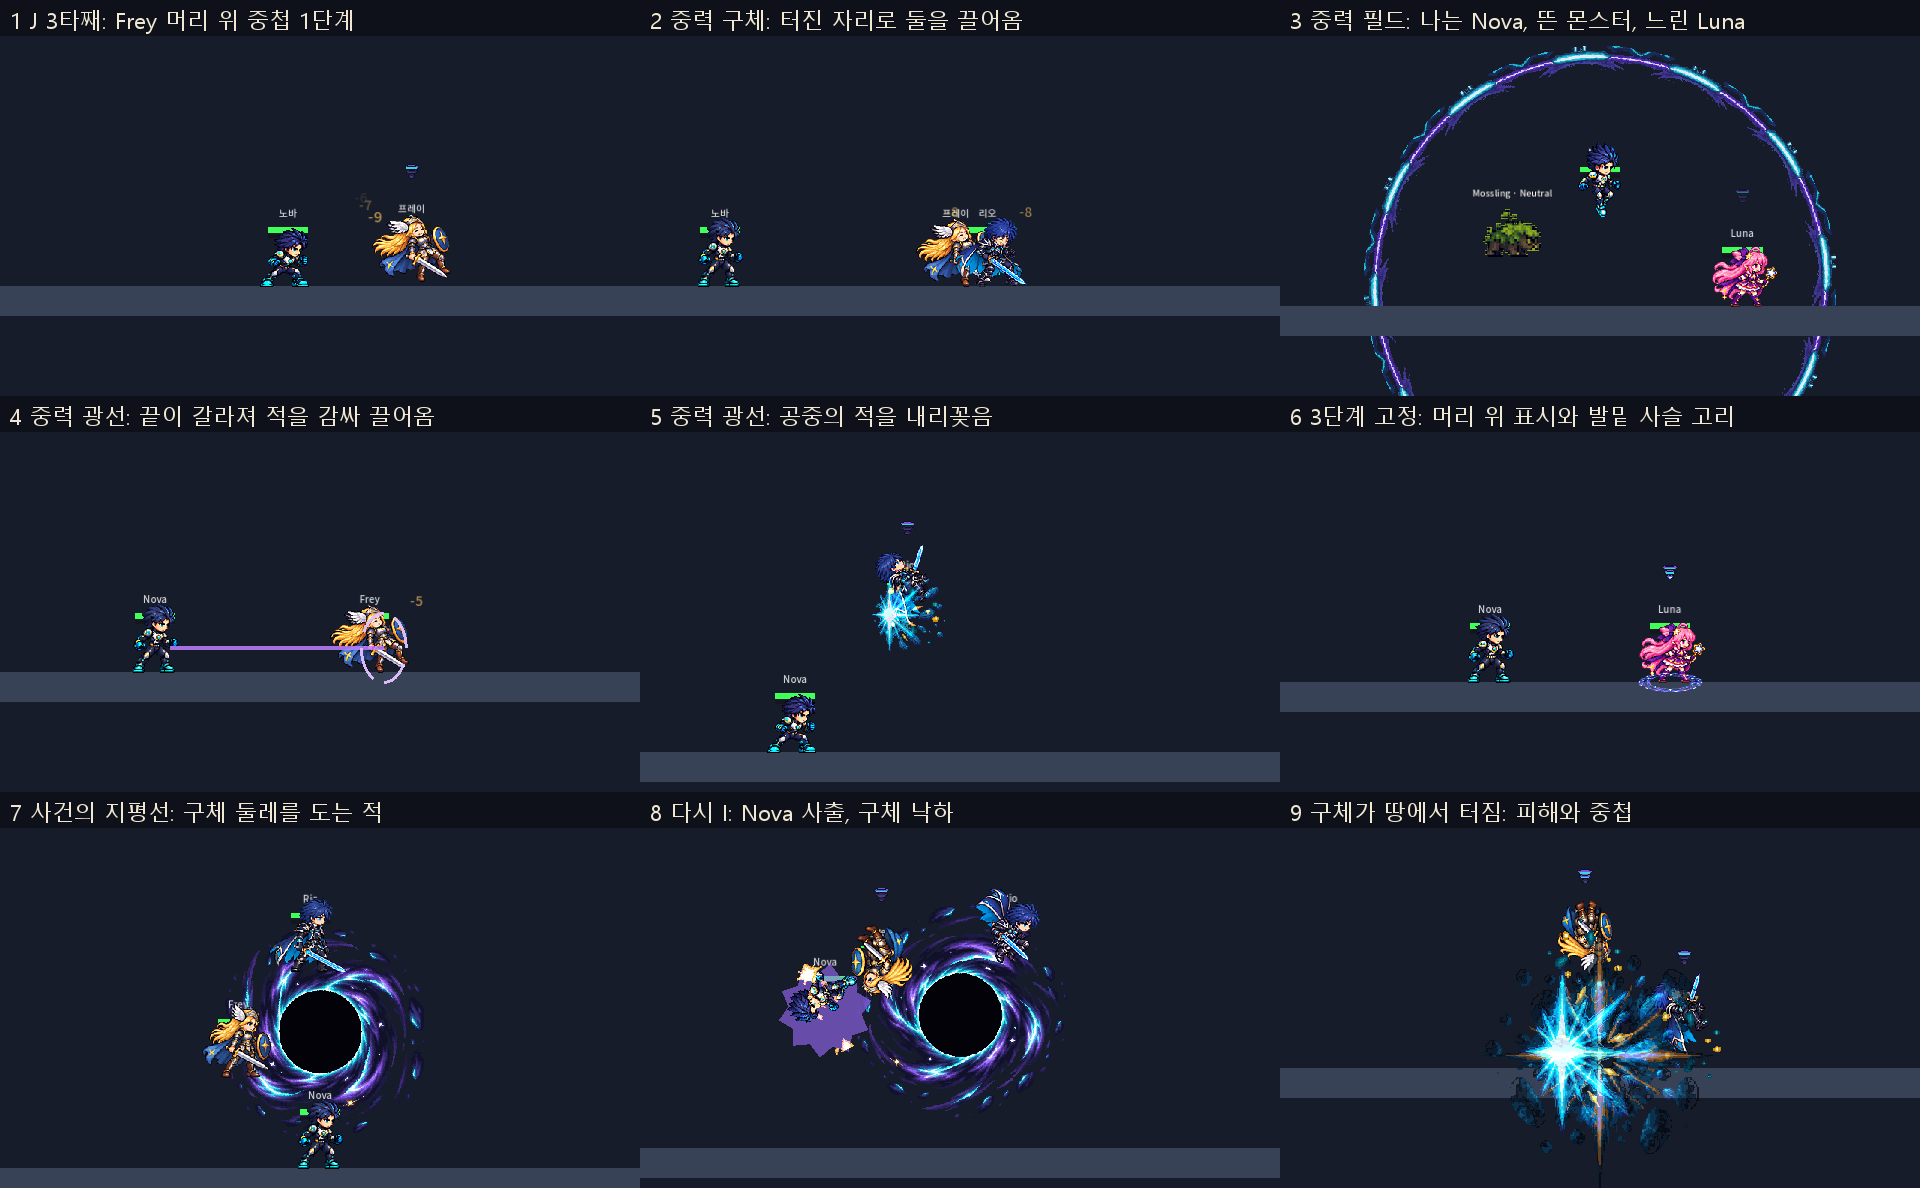
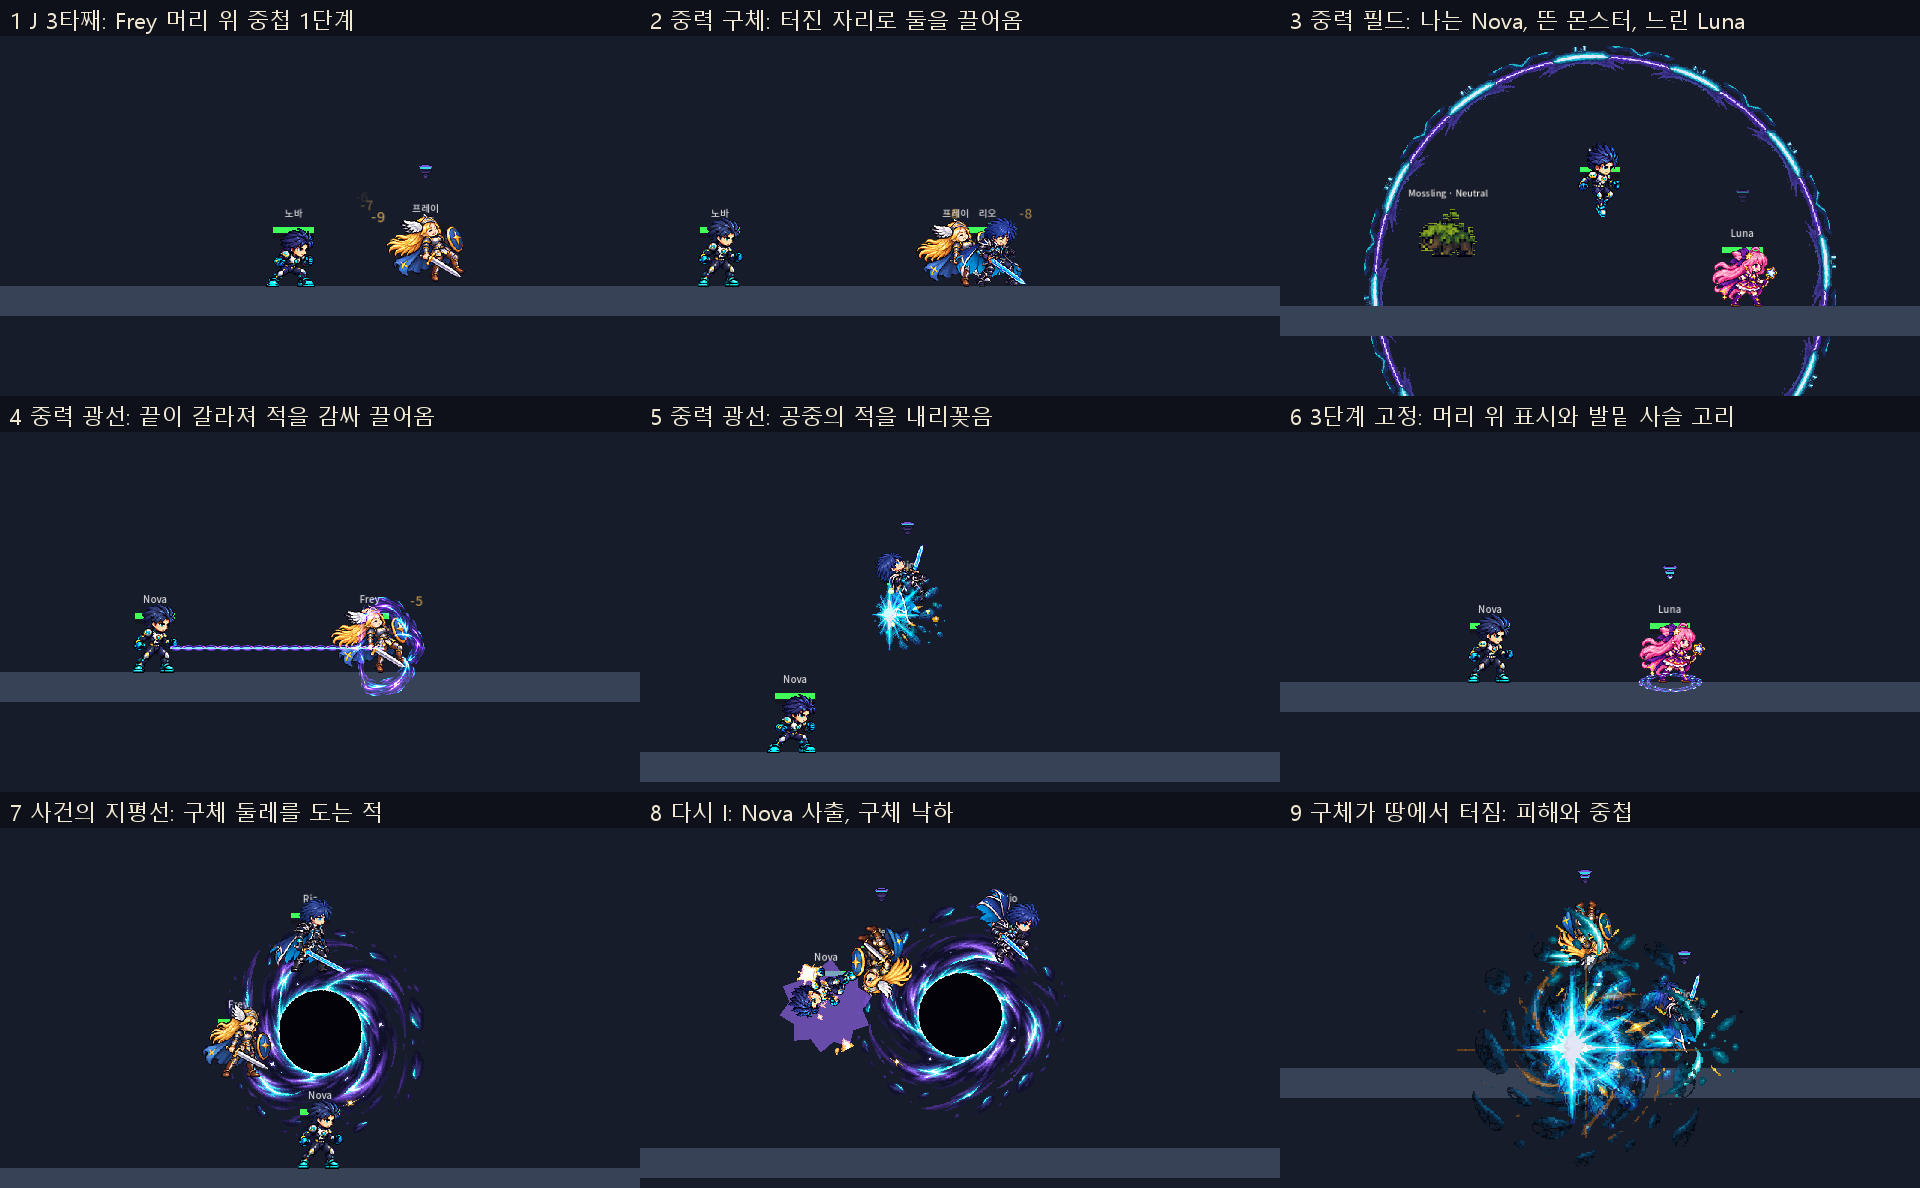
Nova's gravity beam art in the game (CODEX-VFX-06 a)
The user picked A (curved tendrils, a violet fibre cord) after comparing
it with B and a pixelfx C. The tip flies with the head strip; the cord
from her hand tiles the cord texture along a Line2D (NovaBeam.make_cord,
used by the wrap too); on a grounded hit the tip splits round the foe
(one-shot) and then binds it (loop) while the cord drags it in, mirrored
when she stands on its right. Code shapes stay as the fallback. Tests
check the head, the split and the tiled cord; run_all passes; the board
in reports/nova-kit-2026-11-03/ is recaptured.

diff --git a/design/SKILLS.md b/design/SKILLS.md
@@ -112,7 +112,7 @@
 | `↑J`·`공중 ↑J`·`↓J`·`공중 ↓J`·`공중 J` | 벡터 어퍼컷·압축 발구르기·메테오 킥·공중 벡터 타격 | 동작은 그대로다. 운동량이 없어져 예전 중간 세기로 고정했다. 중첩은 쌓지 않는다. | 예전 운동량 0.5의 값 `[STRIKE_POWER]`(예: ↑J 피해 9, ↓J 반경 60·피해 9) | 각 줄 그대로 | 그대로 | 그림 | 그대로 |
 | `K` | 중력 구체 | 누른 방향(없으면 앞)으로 구체를 날린다. 처음 닿은 몸이나 최대 사거리에서 터지고, 터진 곳 둘레의 적을 0.35초 끌어온 뒤 중첩 1. 몬스터도 끌려온다. | 선딜/후딜 0.12/0.22초; 구체 30×30(화면 45), 속도 `520×COMBAT`, 수명 0.5초(약 390px); 폭발 반경 `90×COMBAT`(135px), 피해 8, 끌기 0.35초·760px/s `[ORB_*]` | `gravity_brake` 전체(임시) | 날아가는 구체 `effects/nova_orb.png`(VFX-05 A, 4프레임 16fps 반복, 1배), 폭발은 `skill/nova_gravity_burst`; `NovaOrb`, `orb_burst_at` | 그림 | 45px 구체, 반경 135 폭발 |
 | `L` | 중력 필드 | 쓴 자리에 큰 필드를 6초 깐다. 안에서 Nova는 떠서 W/A/S/D로 8방향을 빠르게 날아다닌다(점프 없음). 다른 캐릭터는 안에 있는 동안 1단계 효과(중첩은 아님)를 받고, 나가면 바로 풀린다. 중립 몬스터는 떠올라 아무것도 못 한다. | 반경 `200×COMBAT`(300px), 6초, 쿨다운 12초(스킬 바), 비행 `470×MOVE`, 가속 `3200×MOVE` `[FIELD_*]` | `slingshot_start` 전체(임시) | `skill/nova_field.png`(VFX-05 B, 640 칸 6프레임 8fps 반복, 테두리 반경 300, 1배, 마지막 1초 깜박임; `NovaField`). 그림이 없으면 코드 원 | 그림 | 반경 300, 6초 |
-| `U` | 중력 광선 | 누른 방향(없으면 앞)으로 광선을 쏜다. 처음 닿은 몸이 땅에 있으면 Nova 앞까지 끌어오고(도착하면 0.3초 경직) 중첩 1. 공중에 있거나 떠 있으면 바로 아래로 내리꽂고 더 큰 피해와 중첩 1. | 선딜/후딜 0.1/0.24초; 26×18, 속도 `1150×COMBAT`, 수명 0.36초(약 620px); 끌기 피해 5·1100px/s·최대 0.45초, 앞 46px; 내리꽂기 피해 11·아래 1000·경직 0.45초 `[BEAM_*]` | `vector_side` 5~6(임시) | 임시: 날아갈 때 손에서 머리까지 보라 줄과 별 머리(`NovaBeam`). 맞히면 끝이 갈라져 적을 감싼다(사용자 2026-11-03): 갈고리 4개가 몸을 감싸고 줄이 손까지 이어진 채 끌려온다(`_start_beam_wrap`, 코드 도형). 그림은 CODEX-VFX-06 후보 | 임시 | 줄의 시작(몸 중심)과 머리, 감싼 몸 중심 |
+| `U` | 중력 광선 | 누른 방향(없으면 앞)으로 광선을 쏜다. 처음 닿은 몸이 땅에 있으면 Nova 앞까지 끌어오고(도착하면 0.3초 경직) 중첩 1. 공중에 있거나 떠 있으면 바로 아래로 내리꽂고 더 큰 피해와 중첩 1. | 선딜/후딜 0.1/0.24초; 26×18, 속도 `1150×COMBAT`, 수명 0.36초(약 620px); 끌기 피해 5·1100px/s·최대 0.45초, 앞 46px; 내리꽂기 피해 11·아래 1000·경직 0.45초 `[BEAM_*]` | `vector_side` 5~6(임시) | CODEX-VFX-06 A(사용자 2026-11-03): 날아갈 때 곡선 촉수 촉 `effects/nova_beam_head.png`(4프레임 16fps)와 손에서 이어진 줄(`effects/nova_beam_tile.png` 64×16을 이어 붙임, `NovaBeam.make_cord`). 맞히면 끝이 갈라져 적을 감싸고(`skill/nova_beam_split.png` 4프레임 40fps) 끌려오는 동안 조인다(`skill/nova_beam_bind.png` 4프레임 12fps 반복); 줄은 왼쪽에서 오는 그림이라 Nova가 오른쪽이면 뒤집는다(`_start_beam_wrap`). 그림이 없으면 코드 별·선·갈고리 4개 | 그림 | 줄의 시작(몸 중심)과 머리, 감싼 몸 중심(160 칸 중심) |
 | `I` 1회 | 사건의 지평선·구체 | 머리 위에 큰 구체를 띄운다. 3초 동안 둘레 345px 안의 적·몬스터(방어 중이어도)가 구체 둘레를 돈다. Nova는 그동안 자유롭다. | 구체 높이 몸 중심 위 150 `[ULTIMATE_SPHERE_HEIGHT]`, 3초, 잡는 반경 `230×COMBAT`, 도는 반경 `75×COMBAT`(112px), 회전 3.2rad/s | `slingshot_start` 전체 | `vfx/nova_sphere.png`(VFX-05 A, 6프레임 12fps 반복, 일반 혼합, 1배, 도는 적 뒤에 그림; `_create_singularity_visual`). 그림이 없으면 `nova_ult_core` 2.2배와 고리 2개 | 그림 | 검은 핵 지름 110, 도는 반경 112 |
 | `I` 다시(누르고 있기) | 사건의 지평선·공전과 사출 | 누르고 있는 동안 Nova도 구체 둘레를 돌고(예상 궤적 표시), 떼면 누르고 있던 방향(없으면 궤도 접선)으로 날아가 부딪힌 적에게 피해와 중첩 1. 사출하면 구체가 떨어진다. 봇은 한 번 더 눌러 사출한다. | 공전 반경 `60~200×COMBAT`, 속도 900; 사출 `1150×WORLD` 0.4초, 몸 반경 `42×COMBAT`, 피해 14, 넉백 520 `[ULTIMATE_LAUNCH_*]` | 몸이 진행 방향으로 회전 | `nova_launch_flash`, 예상선 `Line2D` | 그림 | 사출 방향·거리 |
 | `I` 끝 | 사건의 지평선·낙하 | 3초가 지나거나, Nova가 사출하거나, 공전·사출 중 Nova가 맞으면 구체가 떨어진다. 아래 발판에 닿으면(없으면 1초 뒤) 터지며 돌던 적에게 피해와 중첩 1. | 낙하 가속 2600, 최대 1100, 최대 1초 `[ULTIMATE_FALL_*]`; 폭발 피해 16, 넉백 600, 반경 `120×COMBAT` `[ULTIMATE_COLLAPSE_*]` | 없음 | `vfx/nova_ult_burst`, `nova_impact_star` | 그림 | 터지는 자리(발판 위) |
@@ -197,7 +197,7 @@
 | 15 | Nova 중력 중첩 표시·고정 | **그림(2026-11-03 적용)** | VFX-05 B안(중력 우물 3단계, 사슬 고리) | 상태 아이콘 줄 위, 3단계 |
 | 16 | Nova 중력 구체·폭발 | **구체 그림(2026-11-03 적용)** | VFX-05 A안. 터짐은 지금 중력 폭발 그대로 | 45px, 반경 135 |
 | 17 | Nova 중력 필드 | **그림(2026-11-03 적용)** | VFX-05 B안(밝은 분절 테두리) | 반경 300, 6초 |
-| 18 | Nova 중력 광선 | **다시 그림(CODEX-VFX-06)** | 사용자: 끝이 갈라져 적을 감싼 뒤 앞으로 끌고 옴. 머리·갈라짐·감싸기·줄 A/B 후보를 만드는 중(VFX-05의 A/B는 고르지 않음) | 26×18, 약 620px, 감싼 몸 60×90 |
+| 18 | Nova 중력 광선 | **그림(2026-11-03 적용)** | 사용자: 끝이 갈라져 적을 감싼 뒤 앞으로 끌고 옴. CODEX-VFX-06 A안(곡선 촉수, 보라 섬유 줄). B안과 pixelfx C안(`reports/pixelfx-eval-2026-11-03/`)과 비교해 골랐다 | 26×18, 약 620px, 감싼 몸 60×90 |
 | 19 | Nova 사건의 지평선 구체 | **그림(2026-11-03 적용)** | VFX-05 A안(나선 강착 원반). 낙하 뒤 폭발은 `nova_ult_burst` 그대로 | 도는 반경 112 |
 | 20 | Nova 스킬 아이콘 | **그림(2026-11-03 적용)** | VFX-05 `nova_j`·`nova_k`·`nova_l`·`nova_u`(새)·`nova_i` | 새 기술 |
 | 21 | Nova 몸 동작 줄 | **사용자 선택 대기** | SKM-05 후보 `orb_throw`·`field_fly`(남·여), 리드 통과 `gravity_beam`(남·여), 필드 시전은 기존 후보 `zero_gravity`(모션 뷰어) | 지금 `gravity_brake`·`slingshot_start`·`vector_side` 빌림 |

diff --git a/AGENTS.md b/AGENTS.md
@@ -120,7 +120,7 @@ A run fails if Godot prints `SCRIPT ERROR`, `ERROR` or `Parse Error`, even with 
 | builder (code + UI, 2026-10-22: story mode step 3, D43) | `design/tasks/CODEX-SYS-04.md` | `scripts/story/`, `scripts/ui/`, `Main.gd` story hooks, `RealmMonster.gd` + `scripts/monsters/` (hostile/boss options only), one `Vfx.gd` entry, `strings.csv`, story/monster tests, `reports/codex-sys-04/` | done — merged `bcda371` (stage 5 collapse escape with three crystals, opt-in `hostile`/`make_boss()` monster options, stage 7 boss with reinforcements, stages 6/8, stage 9 rival shadows → mid scene → own shadow with the hero-only band, ending screen and CLEAR; 48 tests; a bot-vs-stage probe of 20 fights in `reports/codex-sys-04/README.md` — not a human difficulty measure) |
 | builder ×2 (2026-11-03: new kits' art, Frey D44 and Luna D45; night routine) | `design/tasks/CODEX-SKM-03.md`, `CODEX-VFX-03.md`, `CODEX-SKM-04.md`, `CODEX-VFX-04.md` | `art/bakeoff/{frey,luna}/…`, `art/bakeoff/effects/{frey,luna}/`, `art/bakeoff/ui/status/`, `art/bakeoff/skill_icons/{frey,luna}/`, `reports/codex-{skm,vfx}-0{3,4}/` | SKM-03 merged `8d7846c0` (`wing_hover` delivered, `whirl_spin` held: face width 0.943); VFX-03 merged `47f5334c` (wings, sword wave, descent light, slow mark, K icon, A/B each); SKM-04 merged `06179a3b` (all three rows held on face ratios; the lead passed `star_warp` and `brave_grab` as candidates, `2713b53f`; `brave_cyclone` held: face 0.86, weak spin pose); VFX-04 merged `ae98e9bb` (barrier, break, cyclone, warp A/B; star shots, star mark, five icons). The user picked 2026-11-03 and the lead put the picks in (Frey wings a, wave b, light b, slow a; Luna fired cyclone a, spinning cyclone b, barrier, break and warp b, the stars, the mark and five icons; `reports/vfx-picks-2026-11-03/`); Frey's K icon and the body rows (`wing_hover`, `star_warp`, `brave_grab`) wait for picks |
 | builder ×2 (2026-11-03: Nova's new kit art, D47; user "Codex로 만들기") | `design/tasks/CODEX-SKM-05.md`, `CODEX-VFX-05.md` | `art/bakeoff/nova/nova_{male,female}-{gravity_beam,orb_throw,field_fly}-v*`, `art/bakeoff/effects/nova/`, `art/bakeoff/ui/status/nova_gravity_*`, `art/bakeoff/skill_icons/nova/`, `reports/codex-{skm,vfx}-05/` | SKM-05 merged `ef05a5dc` (orb_throw, field_fly both bodies; gravity_beam held on F5 hand continuity, passed by the lead `07c40c31`); VFX-05 merged `a4998cf8`; the user picked stacks B, orb A, field B, sphere A, the icons, and asked for a beam that splits and wraps (CODEX-VFX-06) |
-| builder (2026-11-03: Nova's wrapping gravity beam; user "끝에서 갈라지며 적을 감싼 뒤 자신의 앞으로 끌고오는 식으로") | `design/tasks/CODEX-VFX-06.md` | `art/bakeoff/effects/nova/nova_beam_{head,split,bind,tile}-{a,b}-v2.*`, `reports/codex-vfx-06/` | merged (A curved tendrils with a violet fibre cord, B angular hooks with a thin beaded cord; head, split, bind, tether each) — candidates only, the user picks |
+| builder (2026-11-03: Nova's wrapping gravity beam; user "끝에서 갈라지며 적을 감싼 뒤 자신의 앞으로 끌고오는 식으로") | `design/tasks/CODEX-VFX-06.md` | `art/bakeoff/effects/nova/nova_beam_{head,split,bind,tile}-{a,b}-v2.*`, `reports/codex-vfx-06/` | merged (A curved tendrils with a violet fibre cord, B angular hooks with a thin beaded cord; head, split, bind, tether each); the user picked **A** after comparing with a pixelfx C (`reports/pixelfx-eval-2026-11-03/`); in the game since 2026-11-03 |
 
 Units never edit product source (`smash-nine-prototype/scripts/`, `characters/`, `scenes/`, `project.godot`). Findings go to the lead.
 

diff --git a/smash-nine-prototype/assets/art/effects/README.md b/smash-nine-prototype/assets/art/effects/README.md
@@ -124,7 +124,7 @@ CODEX-ART-20의 네 짧은 효과는 `tests/art_preview/flash_art_20/build_effec
 
 ## Nova 새 기술 그림 (CODEX-VFX-05, 사용자 선택 2026-11-03)
 
-사용자 선택: 중력 중첩 B, 중력 구체 A, 중력 필드 B, 사건의 지평선 A, 아이콘은 하나뿐인 후보. 중력 광선은 A/B 대신 "끝에서 갈라지며 적을 감싸 끌고 오는" 새 그림을 CODEX-VFX-06이 만든다(지금은 코드 도형).
+사용자 선택: 중력 중첩 B, 중력 구체 A, 중력 필드 B, 사건의 지평선 A, 아이콘은 하나뿐인 후보. 중력 광선은 A/B 대신 "끝에서 갈라지며 적을 감싸 끌고 오는" 새 그림을 CODEX-VFX-06이 만들었고, 사용자가 A(곡선 촉수)를 골랐다.
 
 | 파일 | 후보 | 프레임 셀 | FPS / 반복 | 앵커 | blend | 표시 |
 |---|---|---:|---:|---:|---|---|
@@ -132,5 +132,9 @@ CODEX-ART-20의 네 짧은 효과는 `tests/art_preview/flash_art_20/build_effec
 | `nova_orb.png` | 구체 A | 4 × 64×64 | 16 / 예 | (32,32) | additive | 1배, 투사체 |
 | `skill/nova_field.png` | 필드 B | 6 × 640×640 | 8 / 예 | (320,320) | additive | 1배(테두리 반경 300) |
 | `../vfx/nova_sphere.png` | 지평선 구체 A | 6 × 320×320 | 12 / 예 | (160,160) | normal | 1배, 도는 적 뒤 |
+| `nova_beam_head.png` | 광선 촉 VFX-06 A | 4 × 48×48 | 16 / 예 | (24,24) | additive | 1배, 투사체 |
+| `nova_beam_tile.png` | 광선 줄 VFX-06 A | 1 × 64×16 | — | 좌우 이음 | additive | `Line2D` 타일 반복, 폭 16 |
+| `skill/nova_beam_split.png` | 갈라져 감쌈 VFX-06 A | 4 × 160×160 | 40 / 아니오 | (80,80) 몸 중심 | additive | 1배, 줄이 왼쪽(오른쪽이면 뒤집음) |
+| `skill/nova_beam_bind.png` | 감싼 채 조임 VFX-06 A | 4 × 160×160 | 12 / 예 | (80,80) 몸 중심 | additive | 1배, 끌려오는 동안 |
 
 상태 표시 `ui/status/nova_gravity_{1,2,3}.png`(중첩 B)와 Nova 스킬 아이콘 5개(`nova_u` 새로)도 같은 날 넣었다.
